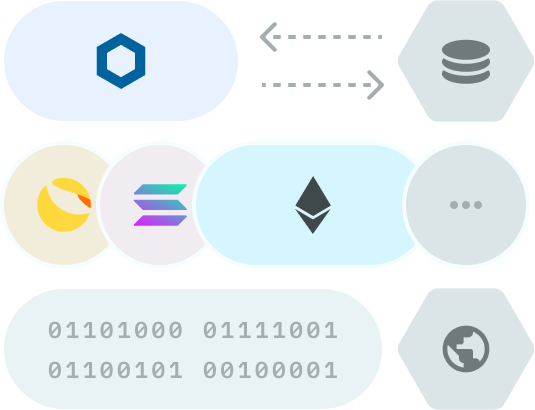
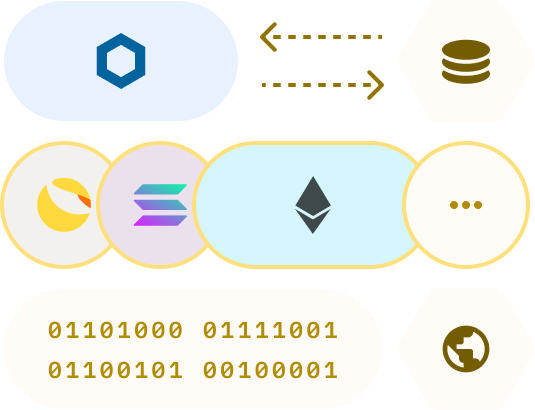
Feat: Background color changed (#129)
* Feat: Background color changed

* Fix: added fixes

diff --git a/src/sections/HomePageBanner/HomePageBanner.module.css b/src/sections/HomePageBanner/HomePageBanner.module.css
@@ -1,5 +1,5 @@
 .container {
-  background-color: var(--white-color);
+  background-color: var(--secondary-200-color);
   padding: 0 2rem;
 }
 
@@ -13,7 +13,7 @@
 }
 
 .title_a {
-  color: var(--neural-variant-600-color);
+  color: var(--secondary-600-color);
   font-feature-settings: "calt";
 }
 
@@ -37,7 +37,6 @@
 
 
 .imageContainer {
-  background-color: var(--secondary-200-color);
   flex: 1;
   overflow: hidden;
   position: relative;
@@ -56,7 +55,7 @@
    height: 568px;
    top: 4.375rem;
    width: 412px;
-   background-color: var(--secondary-400-color);
+   background-color: var(--secondary-300-color);
    border-radius: 347.1875rem;
  }
 

diff --git a/src/sections/HomePageBanner/HomePageBanner.jsx b/src/sections/HomePageBanner/HomePageBanner.jsx
@@ -41,7 +41,7 @@ function HomePageBanner() {
               </li>
             </ul>
 
-            <NavLink to={'/learn'} type="primary" text="Get Started" icon="map-pointer.svg" />
+            <NavLink to={'/learn'} type="primary" text="Get Started" />
           </div>
         </div>
         <div className={styles.imageContainer}>
